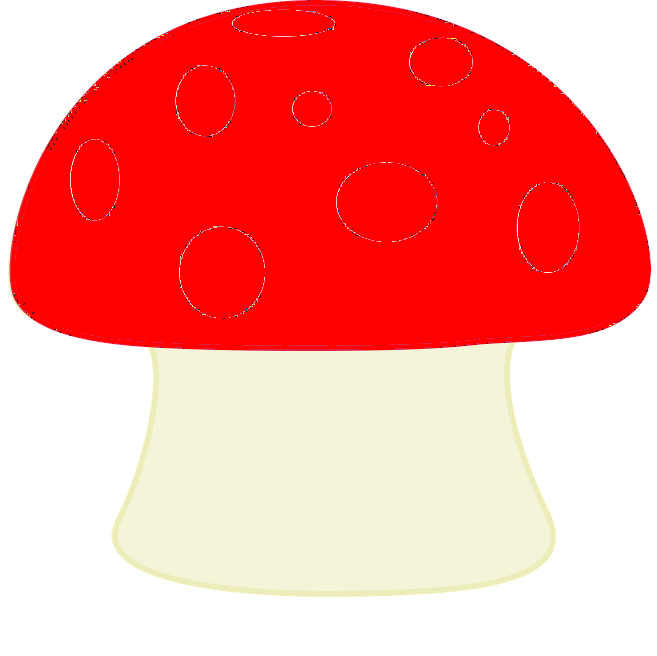
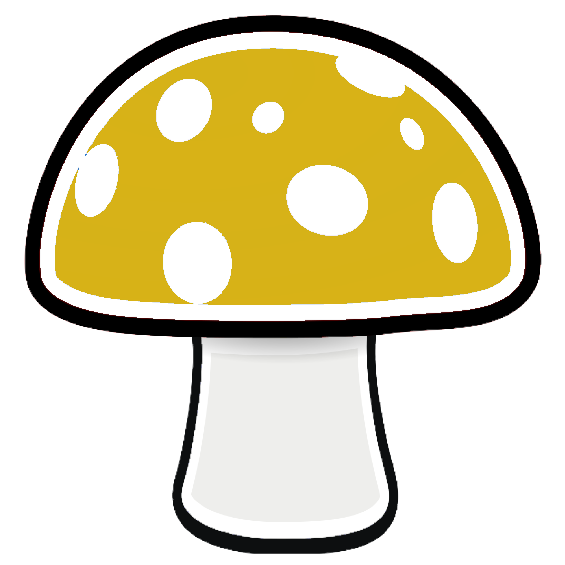
Changed images to be used by matchGame.py

diff --git a/Stages/Match/matchGame.py b/Stages/Match/matchGame.py
@@ -67,7 +67,7 @@ class MatchGame(BaseStage):
         self.screen_height = screen.screen_height
         self.screen_width = screen.screen_width
         self.screen = screen
-        self.bgImage = pygame.transform.scale(pygame.image.load('Stages/media/trees.png').convert(),
+        self.bgImage = pygame.transform.scale(pygame.image.load('Stages/media/MainMenueBackground2.png').convert(),
                                               (self.screen_height, self.screen_width))
 
         #Generate prize
@@ -98,8 +98,8 @@ class MatchGame(BaseStage):
         self.selectedButtonNames = []  # names of selected rocks
 
         self.hiddenImages = ["ts1.png", "ts2.png", "ts3.png", "ts4.png", "ts5.png", "ts6.png",
-                             "ts7.png", "ts8.png", "ts9.png", "ts11.png", "ts12.png",
-                             "ts13.png", "ts14.png"]  # images to be found under a rock
+                             "ts7.png", "ts8.png", "ts9.png", "ts10.png","ts11.png", "ts12.png",
+                             "ts13.png", "ts14.png", "ts15.png"]  # images to be found under a rock
         # loads the rock image as a png, ensure image is only loaded once
         self.rockImage = (pygame.image.load("Stages/media/rockImage.png").convert_alpha())
 
